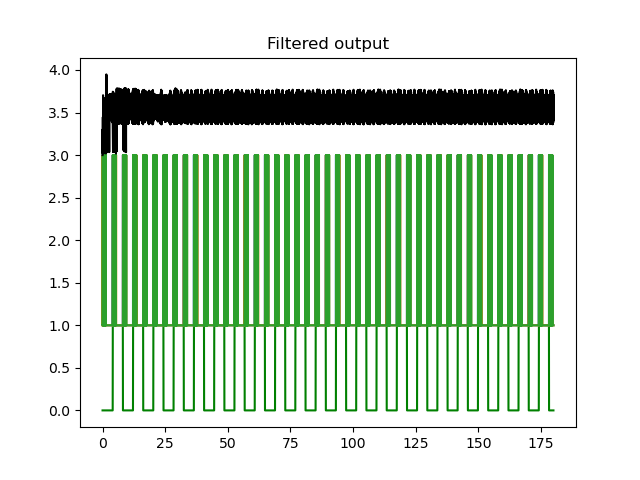
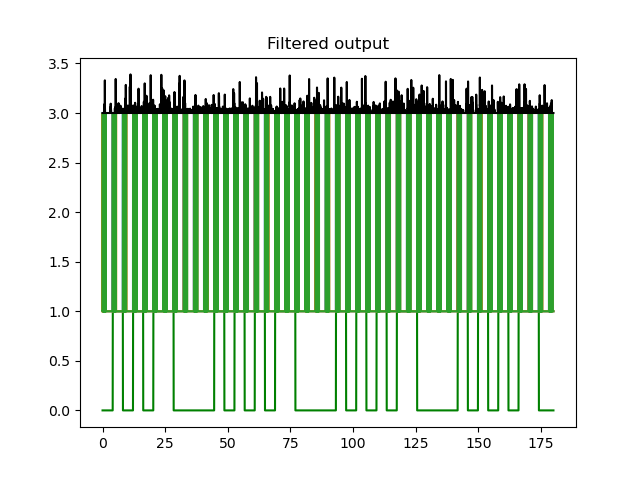
learning algorithm 3 layers feedback

diff --git a/three-layers-feedback.py b/three-layers-feedback.py
@@ -44,7 +44,7 @@ def phase_automata(driving_symbol='0', number_of_symbols=3, id_of_starting_symbo
     return code, ending_state
 
 
-reseed = 91323 #91280 #91274 # 91264 # 91254  # 91273
+reseed = 91332 #91323 #91280 #91274 # 91264 # 91254  # 91273
 good = False
 number_of_samples = 6
 ts = 45  # number of timesteps to hold a driving symbol constant for.
@@ -72,13 +72,31 @@ plt.plot(t,bothLabels+2.0,color="black",label="label")
 plt.legend()
 plt.savefig("fig/input_pattern_example_probTran_"+str(pb)+"_padded_zeros_true.png")
 i = 1
+bitstring = "0101100001010"
+w = 0
 while i < number_of_samples:
-    threeChannelsOF1, end_channel = phase_automata(driving_symbol="1", probability_of_transition=pb, timesteps=ts)
+    threeChannelsOF1, end_channel = phase_automata(driving_symbol=bitstring[w], probability_of_transition=pb, 
+                                                                  timesteps=ts)
     threeChannels1 = np.concatenate((threeChannelsOF1, padded_zeros), axis=1)
-    threeChannelsOF0, end_channel0 = phase_automata(driving_symbol="0", probability_of_transition=pb, timesteps=ts)
+    if (bitstring[w] == "0"):
+        labels0 = np.zeros((ts * 3, 1), dtype=float)
+    else:
+        labels0 = np.ones((ts * 3, 1), dtype=float)
+    w += 1
+    w  = w % len(bitstring)
+    threeChannelsOF0, end_channel0 = phase_automata(driving_symbol=bitstring[w], probability_of_transition=pb,
+                                                    timesteps=ts)
+    if (bitstring[w] == "0"):
+        labels1 = np.zeros((ts * 3, 1), dtype=float)
+    else:
+        labels1 = np.ones((ts * 3, 1), dtype=float)
+
+    w += 1
+    w = w % len(bitstring)
+
     threeChannels0 = np.concatenate((threeChannelsOF0, padded_zeros), axis=1)
-    labels0 = np.zeros((ts * 3, 1), dtype=float)
-    labels1 = np.ones((ts * 3, 1), dtype=float)
+    #labels0 = np.zeros((ts * 3, 1), dtype=float)
+    #labels1 = np.ones((ts * 3, 1), dtype=float)
     bothLabelsB = np.concatenate((labels0, labels1), axis=0)
     bothPatternsB = np.concatenate((threeChannels0, threeChannels1), axis=1)
     bothLabelsA = np.copy(bothLabels)
@@ -129,7 +147,7 @@ while not good:
     with model:
         nengo.Connection(input_signal, layer1, synapse=None)
         nengo.Connection(layer1, layer2, synapse=1e-1)
-        nengo.Connection(layer2, layer1, synapse=ts*1e-2)
+        nengo.Connection(layer2, layer1, synapse=ts*1e-1)
         nengo.Connection(layer2, layer3, synapse=1e-2)
         nengo.Connection(layer3, layer2, synapse=ts*1e-1)
 
@@ -168,8 +186,9 @@ while not good:
     plt.title("Filtered L1 output")
     # print(np.shape(sim.data[p_recall][test][0:,0:1]), np.shape(sim.data[p_values][test][0:,0:1]))
     # plt.plot(t, sim.data[p_recall][0:,0:1])# - sim.data[p_values][0:,0:1])
-    plt.plot(t, sim.data[p_keys] + 0, color="g")
+    
     plt.plot(t, sim.data[input_probe] + 2)
+    plt.plot(t, sim.data[p_keys] + 0, color="black")
     print(np.shape(sim.data[filteredl1]))
     plt.plot(t, sim.data[filteredl1][0:, 0:1] + 3, color="b")
     plt.plot(t, sim.data[filteredl1][0:, 1:2] + 4, color="y")
@@ -184,8 +203,8 @@ while not good:
     plt.title("Filtered L2 output")
     # print(np.shape(sim.data[p_recall][test][0:,0:1]), np.shape(sim.data[p_values][test][0:,0:1]))
     # plt.plot(t, sim.data[p_recall][0:,0:1])# - sim.data[p_values][0:,0:1])
-    plt.plot(t, sim.data[p_keys] + 0, color="g")
     plt.plot(t, sim.data[input_probe] + 2)
+    plt.plot(t, sim.data[p_keys] + 0, color="black")
     print(np.shape(sim.data[filteredl2]))
     plt.plot(t, sim.data[filteredl2][0:, 0:1] + 3, color="b")
     plt.plot(t, sim.data[filteredl2][0:, 1:2] + 4, color="y")
@@ -198,22 +217,22 @@ while not good:
     plt.figure()
     plt.title("Filtered L3 output")
 
-    plt.plot(t[test], sim.data[p_keys][test] + 0, color="g")
+    plt.plot(t[test], sim.data[p_keys][test] + 0, color="black")
     plt.plot(t[test], sim.data[input_probe][test] + 2)
     print(np.shape(sim.data[filteredl2]))
     plt.plot(t[test], sim.data[filteredl2][test][0:, 0:1] + 3, color="b")
     plt.plot(t[test], sim.data[filteredl2][test][0:, 1:2] + 4, color="y")
-    plt.savefig('fig/3layersfeedbck_neuronsl3_2.png')
+    plt.savefig('fig/3layersfeedbck_neuronsl3_2_'+str(reseed)+'.png')
 
     plt.clf()
     
     i = 0
     
-    best_neuron_value = np.abs(np.sum(sim.data[filteredl3][0:, 0:0 + 1] - sim.data[p_keys]))
+    best_neuron_value = np.sum((sim.data[filteredl3][0:, 0:0 + 1]+1.0) - (sim.data[p_keys]*2.0))
     print(best_neuron_value)
     best_neuron_index = 0
     while i < num_neurons_l3:
-        sum = np.abs(np.sum(sim.data[filteredl3][0:, i:i + 1] - sim.data[p_keys]))
+        sum = np.sum((sim.data[filteredl3][0:, i:i + 1]+1.0) - (sim.data[p_keys]*2.0))
         # print(i, sum)
 
         if (sum < best_neuron_value):
@@ -221,7 +240,7 @@ while not good:
             best_neuron_value = sum
         print(best_neuron_value, best_neuron_index, reseed)
         i += 1
-    if (best_neuron_value < 12000):
+    if (np.abs(best_neuron_value) < 20000):
         good = True
     else:
         reseed += 1
